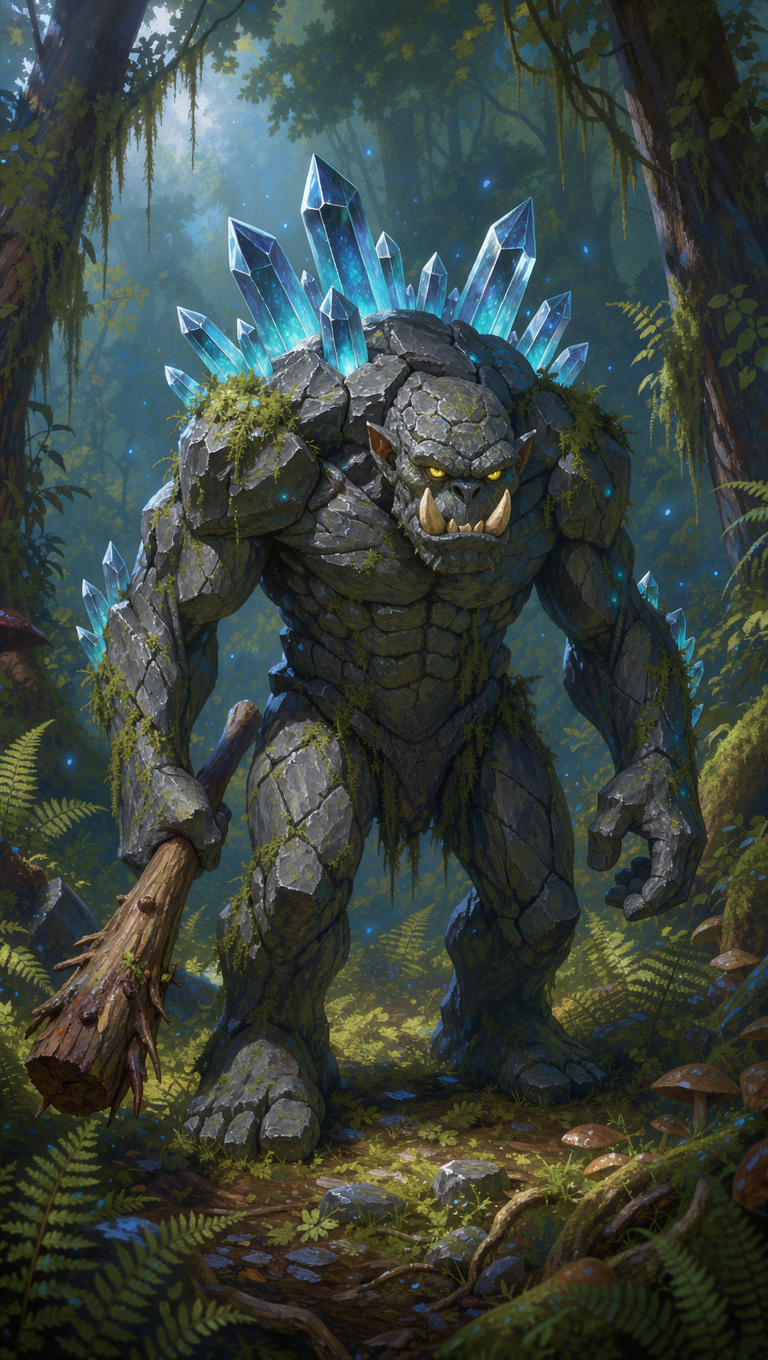
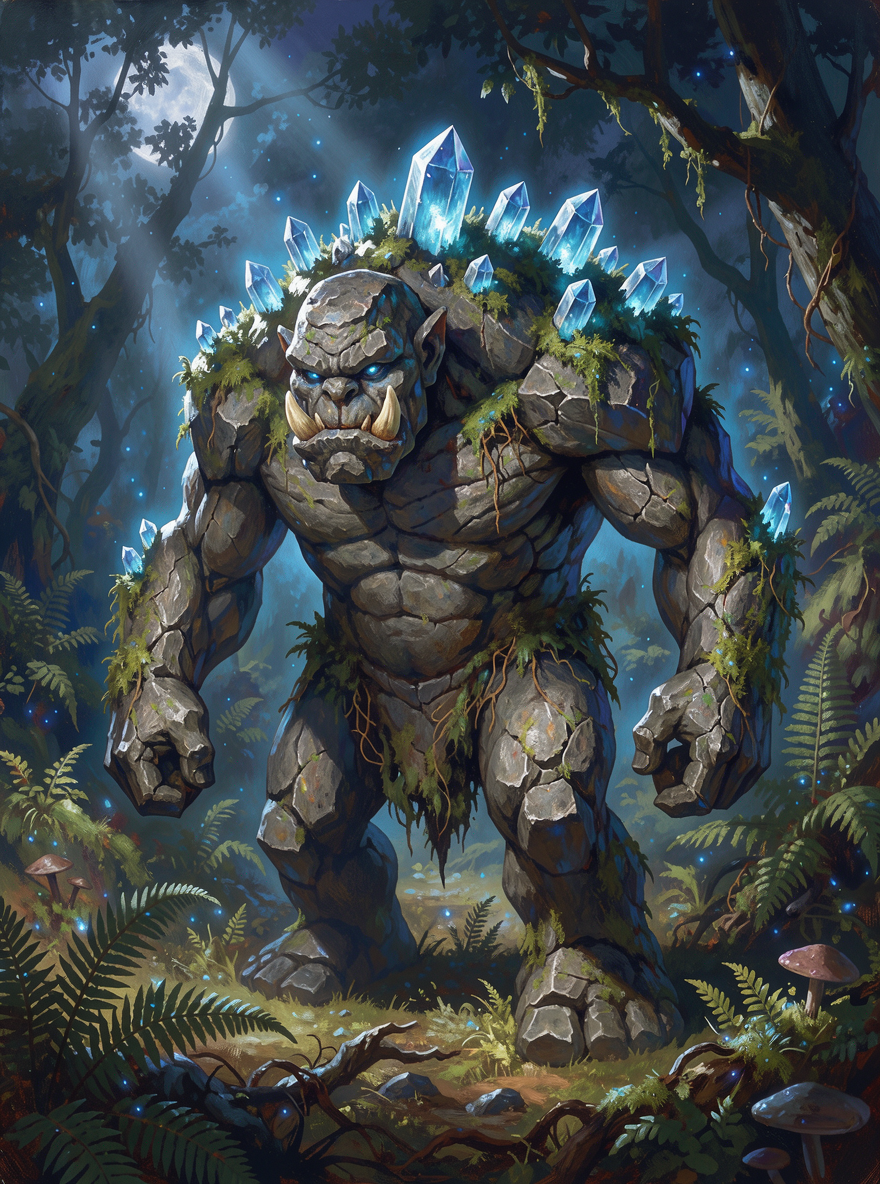
Prototyp 0.6: 18 weitere Illustrationen, Stufe 1 bis 11 komplett
Claude-Session: https://claude.ai/code/session_01RMGcH655twmD43uv7vfpX5

diff --git a/src/ui/app.ts b/src/ui/app.ts
@@ -139,7 +139,7 @@ function titleScreen(): string {
         ...(p ? [{ act: 'continue', label: `Weiterspielen: ${p.name}`, key: 'w', hint: `Stufe ${p.level} · Spieltag ${state!.day}` }] : []),
         { act: 'new', label: p && ui.confirmNew ? 'Wirklich neu beginnen? Der alte Spielstand geht verloren.' : 'Neues Spiel beginnen', key: 'n' },
       ] }])}</div>
-      <p class="fine">Prototyp 0.5 · Tastenkürzel am Computer, Tippen am Handy</p>
+      <p class="fine">Prototyp 0.6 · Tastenkürzel am Computer, Tippen am Handy</p>
     </div>
   </div>`;
 }

diff --git a/README.md b/README.md
@@ -7,9 +7,9 @@ Das Dorf Moosgrund liegt am Rand des Brackenwalds. Jeden Tag gibt es eine feste 
 Wer genug Erfahrung sammelt, fordert den Meister seiner Stufe heraus. Ab Stufe 15 wartet in der
 Farnschlucht der Brackenwyrm. Wer ihn besiegt, beginnt wieder bei Stufe 1 und behält einen Bonus.
 
-## Stand: Prototyp 0.5
+## Stand: Prototyp 0.6
 
-- 18 Illustrationen: alle Gegner der Stufen 1 bis 5, dazu Rudelführer, Rindenspinne und Steintroll (Originale in `art-source/`)
+- 35 von 45 Gegnern illustriert: Stufe 1 bis 11 komplett, dazu Harpyie und Knochenritter (Originale in `art-source/`)
 - 20 Waldereignisse, 7 davon mit Entscheidung (Moosfee, alte Truhe, Wunschbrunnen, leuchtender Pilz, Schrein, schlafender Söldner, verletzter Wanderer)
 - Ruhmeshalle: Rangliste der Drachentöter von Moosgrund mit Titeln und eigenen Rekorden
 - Gasthaus: Frieda gibt bis zu 3 Tipps am Tag, passend zum Spielstand; am Stammtisch reden die Gäste über dich
